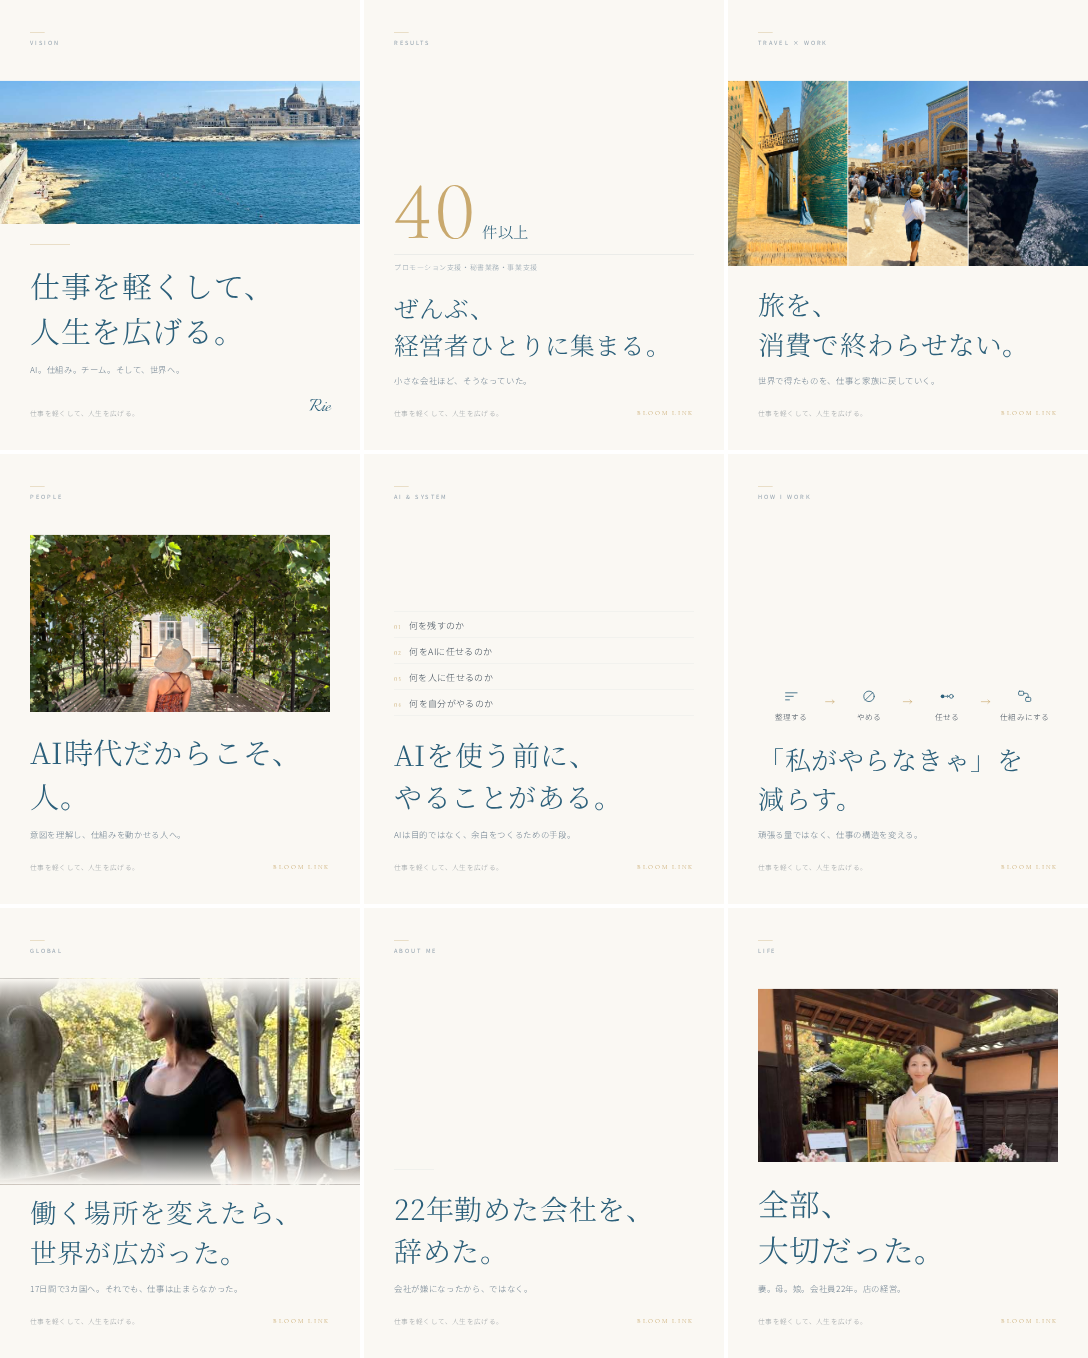
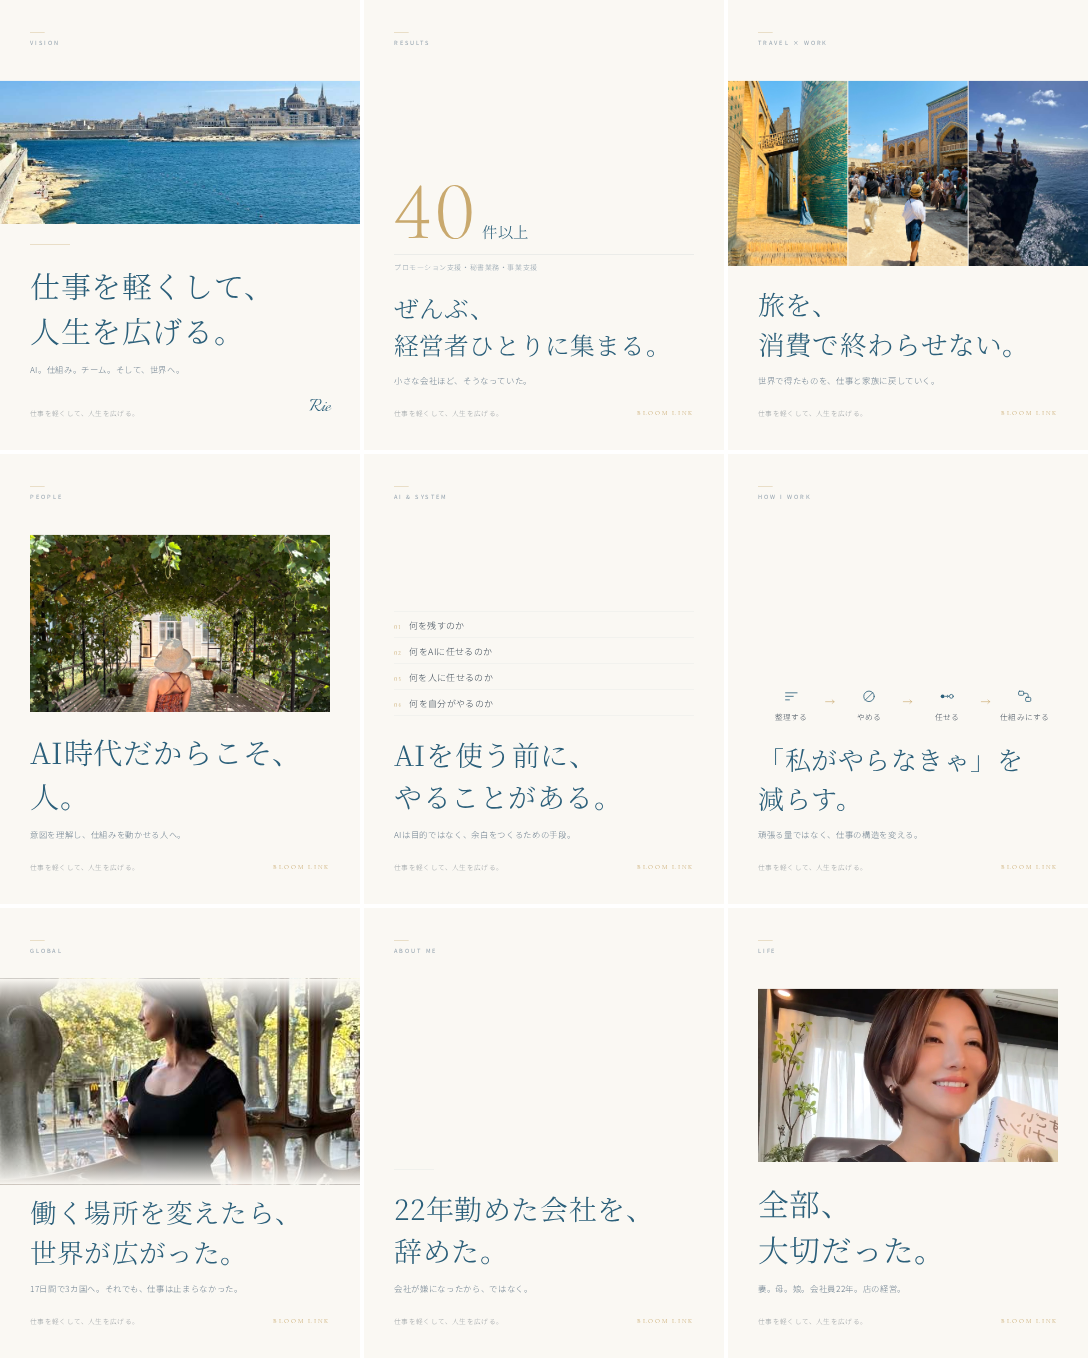
01の写真を普段着の写真に差し替え、黒帯の自動除去を追加
いただいた3枚を01の額装に入れて比較し、本を持った写真を採用した。
明るく、普段着で、顔がはっきり見える。グリッドの実寸でも人物が読める。

- 机の写真は採用しなかった。背景にボトル棚が写っていて、05で
  windowseat.jpg を外した判断と揃わない。等倍で確認して判明した。
- 店の前の写真は全身の縦位置で、横長の額装に入れると人物が小さくなる。
- 着物の写真は残す。日本を扱う回ができたときの候補。

optimize-photos.mjs に --trim を追加。画面録画由来の画像には上下に
黒帯が付いており、そのまま入れると「暗くしない」というルールに反する。
行・列ごとに一番明るい画素を見て、暗いままの帯を端から削る。
PNG入力にも対応した。

お酒の写り込みは3枚で見つかっているため、確認手順として資料に残した。

Claude-Session: https://claude.ai/code/session_018TyEhHEDE4a9HFdLJk5hvJ

Changed region(s): [[0.6875, 0.7113, 1.0, 0.866]]

diff --git a/src/instagram9/posts.js b/src/instagram9/posts.js
@@ -34,15 +34,14 @@ export const posts = [
     no: '01',
     category: 'LIFE',
     variant: 'frame',
-    photos: ['japan.jpg'],
-    // 縦位置の全身写真を横長の額装に入れると、既定の中央寄せでは顔が切れる。
-    // 上寄せにして、顔が枠に入るようにする。
-    focus: '50% 4%',
+    photos: ['rie-book.jpg'],
+    // 縦位置の写真を横長の額装に入れるので、顔が枠に収まる位置へ寄せる
+    focus: '50% 20%',
     headline: ['全部、', '大切だった。'],
     sub: '妻。母。娘。会社員22年。店の経営。',
     headlineSize: 92,
     role: '物語の入口。いきなりAIやサービスの話をしない。',
-    photoNote: '日本／暮らしの時間が伝わる写真。本人の後ろ姿や手元でも可。',
+    photoNote: '普段着で、日常の場面。格式より生活が写っているものを選ぶ。',
     caption: `01｜全部、大切だった。
 
 40代で決めた。

diff --git a/docs/instagram-9-posts.md b/docs/instagram-9-posts.md
@@ -166,7 +166,7 @@ npm run ig:fonts     # 表紙のコピーに新しい漢字を足したときだ
 
 | No | 使用素材 | 備考 |
 | --- | --- | --- |
-| 01 | `japan.jpg` | **要差し替え候補**（下記） |
+| 01 | `rie-book.jpg` | |
 | 02 | — | 写真なし |
 | 03 | `barcelona.jpg` | バルセロナ |
 | 04 | — | 写真なし |
@@ -179,7 +179,7 @@ npm run ig:fonts     # 表紙のコピーに新しい漢字を足したときだ
 指示のあった**マルタ（09）・バルセロナ（03）・ハワイ（07）**は入っている。
 ウズベキスタンだけで海外イメージを作らない、という条件も満たしている。
 
-未使用: `chiangmai.jpg`、`phiphi.jpg`、`malaysia.jpg`、`windowseat.jpg`
+未使用: `japan.jpg`（着物・日本を扱う回の候補）、`chiangmai.jpg`、`phiphi.jpg`、`malaysia.jpg`、`windowseat.jpg`
 
 ### 型に合う写真の向き
 
@@ -211,7 +211,7 @@ npm run ig:photo public/travel/IMG_0237.jpeg uzbekistan-market.jpg
 
 | No | ファイル | 元データ | 描画領域 | 倍率 | 判定 |
 | --- | --- | --- | --- | --- | --- |
-| 01 | `japan.jpg` | 622×800 | 900×560 | 1.45x | そのままで可 |
+| 01 | `rie-book.jpg` | 1170×1560 | 900×560 | 0.77x | そのままで可 |
 | 03 | `barcelona.jpg` | 450×800 | 1080×1350 | **2.40x** | **差し替え推奨** |
 | 06 | `pergola.jpg` | 1500×2000 | 900×560 | 0.60x | そのままで可 |
 | 07 | `uzbekistan-khiva.jpg` | 1125×2000 | 358×560 | 0.32x | そのままで可 |
@@ -239,28 +239,33 @@ npm run ig:photo public/travel/IMG_0237.jpeg uzbekistan-market.jpg
    **バルセロナの元データか、上寄り構図の別カットが1枚あれば解決する。**
    03を投稿する前までに間に合えばよい。
 
-2. **01（LIFE）の写真** — 画質は問題ない（1.45倍）。
-   ただし正装の着物＋和風建築の門構えは**料亭の女将**に読める。
-   コピーが「妻。母。娘。会社員22年。店の経営。」＝*全部*なのに、
-   写真は一番格式のある一つの役割しか写っていない。
-   9枚の中で唯一の和・正装なので色調も浮きやすい。
-
-   欲しいのは**普段着の日常の場面**（後ろ姿や手元でも可）。
-   額装の型なので横位置か被写体が中央のもの。
-   例: 食卓、キッチン、駅のホーム、子どもと歩いている、PCと湯呑み。
-   **無理に用意しなくてよい。着物のままでも投稿できる。**
-   着物の写真は捨てない。日本を扱う回ができたときの候補。
+2. **01（LIFE）の写真** — 解決済み。`rie-book.jpg`（普段着・自宅の明るい場面）。
+   着物の写真（`japan.jpg`）から差し替えた。正装＋和風建築は料亭の女将に読め、
+   コピーの「妻。母。娘。会社員22年。店の経営。」＝*全部*に対して
+   一番格式のある一つの役割しか写っていなかった。
+   着物の写真は残してある。日本を扱う回ができたときの候補。
 
 3. **06（PEOPLE）の写真** — 解決済み。`pergola.jpg` は高解像度で問題ない。
    チームが写った仕事の写真があればさらに良くなるが、**必須ではない**。
 
 4. **インド** — リポジトリに写真がない。ウズベキスタンは07に入った。
 
-5. **05（AI & SYSTEM）** — 当初は `windowseat.jpg`（機内・PC）を想定したが、
-   写り込んでいるものがビジネスアカウントの1枚目としては判断が要るため外し、
-   「AIに渡す前に決める4つの問い」を見せる文字ものにした。
-   トリミングでは外せない（瓶とグラスが画面中央にあり、左端のPCしか残らない）。
-   仕事風景の写真が用意できれば、帯の型に戻すこともできる。
+5. **05（AI & SYSTEM）** — 写真なしの型（4つの問い）で確定。
+   当初想定した `windowseat.jpg`（機内・PC）は瓶とグラスが画面中央にあり、
+   トリミングでは外せなかった。仕事風景の写真が用意できれば帯の型に戻せる。
+
+### 写り込みの確認（お酒）
+
+**候補写真を検討するときは、背景まで見る。** 実際に3枚で見つかっている。
+
+| 写真 | 状態 | 扱い |
+| --- | --- | --- |
+| `windowseat.jpg` | 瓶とグラスが画面中央 | 使わない |
+| `barcelona.jpg`（03） | グラスを持っている | 使用中。要判断 |
+| 机の写真（候補） | 背景にボトル棚 | 採用しなかった |
+
+同じ場所で撮った別カットがあれば使える可能性はある。
+グリッドの大きさでは見えないが、拡大すると分かるので投稿前に等倍で確認する。
 
 ### 事実確認が必要なコピー
 
